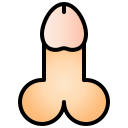
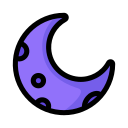
1.1.2-Beta

diff --git a/core/src/main/java/pl/mechi/game/screens/ClickToPlayScreen.java b/core/src/main/java/pl/mechi/game/screens/ClickToPlayScreen.java
@@ -1,0 +1,107 @@
+package pl.mechi.game.screens;
+
+import com.badlogic.gdx.Game;
+import com.badlogic.gdx.Gdx;
+import com.badlogic.gdx.InputProcessor;
+import com.badlogic.gdx.Screen;
+import com.badlogic.gdx.graphics.Texture;
+import com.badlogic.gdx.graphics.g2d.SpriteBatch;
+import com.badlogic.gdx.graphics.g2d.TextureRegion;
+import com.badlogic.gdx.utils.ScreenUtils;
+
+public class ClickToPlayScreen implements Screen, InputProcessor {
+
+    TextureRegion tr;
+    SpriteBatch batch;
+    Game game;
+
+    public ClickToPlayScreen(Game game) {
+        this.game = game;
+    }
+
+    @Override
+    public void show() {
+        batch = new SpriteBatch();
+        tr = new TextureRegion(new Texture("ctp.png"),0,0,1280,720);
+        Gdx.input.setInputProcessor(this);
+    }
+
+    @Override
+    public void render(float delta) {
+        ScreenUtils.clear(0.15f, 0.15f, 0.2f, 1f);
+        batch.begin();
+        batch.draw(tr,0,0,1280,720);
+        batch.end();
+    }
+
+    @Override
+    public void resize(int width, int height) {
+
+    }
+
+    @Override
+    public void pause() {
+
+    }
+
+    @Override
+    public void resume() {
+
+    }
+
+    @Override
+    public void hide() {
+
+    }
+
+    @Override
+    public void dispose() {
+
+    }
+
+    @Override
+    public boolean keyDown(int keycode) {
+        return false;
+    }
+
+    @Override
+    public boolean keyUp(int keycode) {
+        return false;
+    }
+
+    @Override
+    public boolean keyTyped(char character) {
+        return false;
+    }
+
+    @Override
+    public boolean touchDown(int screenX, int screenY, int pointer, int button) {
+        game.setScreen(new GameScreen(game));
+        return false;
+    }
+
+    @Override
+    public boolean touchUp(int screenX, int screenY, int pointer, int button) {
+        return false;
+    }
+
+    @Override
+    public boolean touchCancelled(int screenX, int screenY, int pointer, int button) {
+        return false;
+    }
+
+    @Override
+    public boolean touchDragged(int screenX, int screenY, int pointer) {
+        return false;
+    }
+
+    @Override
+    public boolean mouseMoved(int screenX, int screenY) {
+        return false;
+    }
+
+    @Override
+    public boolean scrolled(float amountX, float amountY) {
+        return false;
+    }
+}

diff --git a/core/src/main/java/pl/mechi/game/entity/Player.java b/core/src/main/java/pl/mechi/game/entity/Player.java
@@ -45,7 +45,7 @@ public class Player extends Entity implements InputProcessor {
         //sr.rect(collideBox.x,collideBox.y,collideBox.w,collideBox.h);
         childRender(sb,sr,this);
     }
-
+    private long tim1;
     @Override
     public void update(Iterator<? extends GameObject> it) {
         if (Gdx.input.isKeyPressed(Input.Keys.S) && Vy > -maxV){
@@ -80,9 +80,14 @@ public class Player extends Entity implements InputProcessor {
             }
         }
         if (Gdx.input.isButtonJustPressed(Input.Buttons.LEFT)){
-            sh.spawnBullet(x + 49,y + 55,Gdx.input.getX(),720 - Gdx.input.getY());
+            sh.spawnBullet(x + 49,y + 55,Gdx.input.getX(),Gdx.graphics.getHeight() - Gdx.input.getY());
             //System.out.println(Gdx.input.getX() + " " + Gdx.input.getY());
+            tim1 = System.currentTimeMillis() + 80;
+        }else if (Gdx.input.isButtonPressed(Input.Buttons.LEFT) && System.currentTimeMillis() - tim1 > 200){
+            tim1 = System.currentTimeMillis();
+            sh.spawnBullet(x + 49,y + 55,Gdx.input.getX(),Gdx.graphics.getHeight() - Gdx.input.getY());
         }
+
         for (Iterator<Entity> it2 = sh.ablb.iterator(); it2.hasNext();) {
             Entity e = it2.next();
             if (e.collideBox.collide(collideBox)){
@@ -129,6 +134,8 @@ public class Player extends Entity implements InputProcessor {
 
     @Override
     public boolean touchDragged(int i, int i1, int i2) {
+        mx = i;
+        my = i1;
         return false;
     }
 

diff --git a/core/src/main/java/pl/mechi/game/entity/spawner/SpawnerHandler.java b/core/src/main/java/pl/mechi/game/entity/spawner/SpawnerHandler.java
@@ -74,12 +74,18 @@ public class SpawnerHandler extends GameObject {
                     ase.add(new NiggaMob(apr.get(a).x, apr.get(a).y, this));
                 }
             }
-            if (r < 2 && !apr.isEmpty() && false) {
+            if (r < 2 && !apr.isEmpty()) {
                 int a = random.nextInt(apr.size());
                 ase.add(new ShooterMob(apr.get(a).x, apr.get(a).y, this));
             }
             if (r < 5){
-                apr.add(new PortalAfricaMob(random.nextInt(1000), random.nextInt(600), this));
+                int px,py;
+                do {
+                    px = random.nextInt(1000);
+                    py = random.nextInt(600);
+                } while (Math.sqrt(Math.pow(players.get(0).x - px, 2) + Math.pow(players.get(0).y - py, 2)) < 180);
+                apr.add(new PortalAfricaMob(px, py, this));
+
                 int a = random.nextInt(apr.size());
                 ase.add(new NiggaMob(apr.get(a).x, apr.get(a).y, this));
             }

diff --git a/lwjgl3/src/main/java/pl/mechi/game/lwjgl3/Lwjgl3Launcher.java b/lwjgl3/src/main/java/pl/mechi/game/lwjgl3/Lwjgl3Launcher.java
@@ -1,5 +1,6 @@
 package pl.mechi.game.lwjgl3;
 
+import com.badlogic.gdx.Graphics;
 import com.badlogic.gdx.backends.lwjgl3.Lwjgl3Application;
 import com.badlogic.gdx.backends.lwjgl3.Lwjgl3ApplicationConfiguration;
 import pl.mechi.game.Main;
@@ -13,6 +14,7 @@ public class Lwjgl3Launcher {
         configuration.setTitle("Game");
         configuration.setForegroundFPS(Lwjgl3ApplicationConfiguration.getDisplayMode().refreshRate + 1);
         configuration.setWindowedMode(1280, 720);
+        //configuration.setFullscreenMode(Lwjgl3ApplicationConfiguration.getDisplayMode());
         configuration.setResizable(false);
         //// You can change these files; they are in lwjgl3/src/main/resources/ .
         configuration.setWindowIcon("libgdx128.png", "libgdx64.png", "libgdx32.png", "libgdx16.png");

diff --git a/core/src/main/java/pl/mechi/game/entity/badmobs/BadMob.java b/core/src/main/java/pl/mechi/game/entity/badmobs/BadMob.java
@@ -37,14 +37,23 @@ public class BadMob extends Entity {
                 it2.remove();
                 downHp();
                 if(hp < 1) {
-                    it.remove();
+                    try {
+                        it.remove();
+                    } catch (Exception ignored) {
+
+                    }
+
                     players.get(0).points++;
                 }
             }
         }
         if (players.get(0).collideBox.collide(collideBox)){
             players.get(0).downHp();
-            it.remove();
+            try {
+                it.remove();
+            }catch (Exception ignored){
+
+            }
         }
 
         float mW = maxV * Gdx.graphics.getDeltaTime();

diff --git a/core/src/main/java/pl/mechi/game/Main.java b/core/src/main/java/pl/mechi/game/Main.java
@@ -1,6 +1,7 @@
 package pl.mechi.game;
 
 import com.badlogic.gdx.Game;
+import pl.mechi.game.screens.ClickToPlayScreen;
 import pl.mechi.game.screens.GameScreen;
 
 /** {@link com.badlogic.gdx.ApplicationListener} implementation shared by all platforms. */
@@ -9,7 +10,7 @@ public class Main extends Game {
 
     @Override
     public void create() {
-        setScreen(new GameScreen(this));
+        setScreen(new ClickToPlayScreen(this));
 
     }
 }
